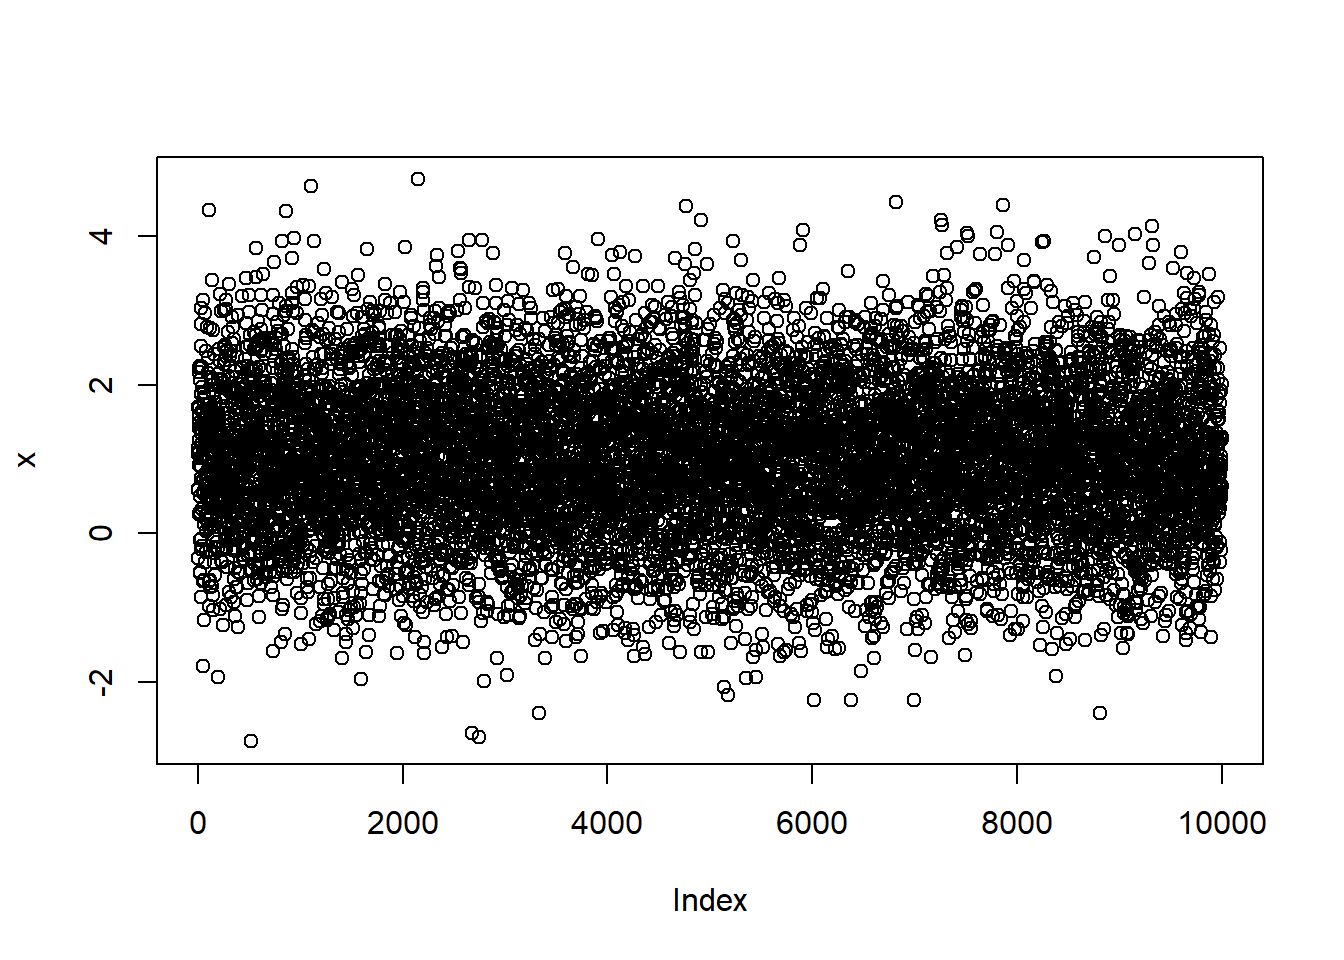
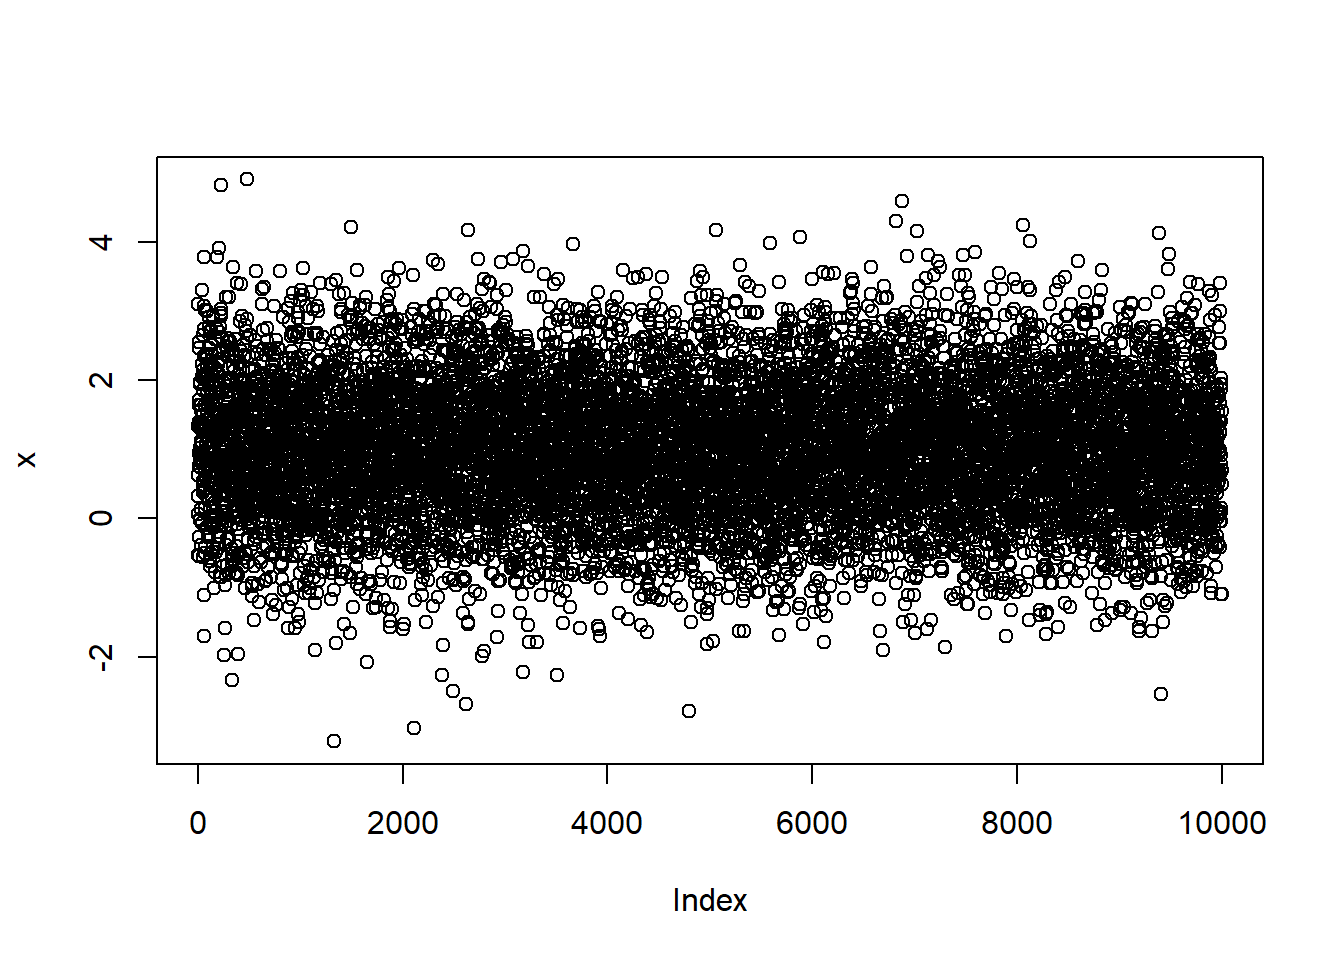
post comandos basicos

diff --git a/content/post/2021-02-17-comandos-basicos-r/index.html b/content/post/2021-02-17-comandos-basicos-r/index.html
@@ -1,13 +1,12 @@
 ---
 
-title: comandos basicos r
+title: Introdução ao R e comandos básicos
 author: Lucas S.B. Jordão
 date: '2021-02-17'
 slug: []
 output: 
     blogdown::html_page:
       toc: true
-      toc_float: true
 categories: []
 tags: []
 subtitle: ''
@@ -81,19 +80,19 @@ projects: []
 </ul>
 </div>
 
-<p>O <i class="fab fa-r-project" style="color:blue"></i> é um projeto colaborativo com contribuições de pessoas do mundo todo cujo objetivo é oferecer uma ferramenta estatística moderna para sistema GNU de software livre.</p>
+<p>O <i class="fab fa-r-project" style="color:blue"></i>  é um projeto colaborativo com contribuições de pessoas do mundo todo cujo objetivo é oferecer uma ferramenta estatística moderna para sistema GNU de software livre.</p>
 <div id="autores" class="section level2">
 <h2>Autores</h2>
-<p>O <i class="fab fa-r-project" style="color:blue"></i> foi idealizado e escrito por <strong>Robert Gentleman</strong> e <strong>Ross Ihaka</strong> — conhecidos como “R &amp; R” do Departamento de Estatística da Universidade de Auckland.</p>
+<p>O <i class="fab fa-r-project" style="color:blue"></i>  foi idealizado e escrito por <strong>Robert Gentleman</strong> e <strong>Ross Ihaka</strong> — conhecidos como “R &amp; R” do Departamento de Estatística da Universidade de Auckland.</p>
 </div>
 <div id="inspiração" class="section level2">
 <h2>Inspiração</h2>
-<p>O <i class="fab fa-r-project" style="color:blue"></i> foi inspirado no ambiente S, que tem sido principalmente desenvolvido por John Chambers, com contribuições substanciais de Douglas Bates, Rick Becker, Bill Cleveland, Trevor Hastie, Daryl Pregibon e Allan Wilks.</p>
-<p>Uma alusão especial é devida a John Chambers, que gentilmente contribuiu com conselhos e encorajamento nos primeiros dias de <i class="fab fa-r-project" style="color:blue"></i> e, mais tarde, tornou-se membro da equipe principal.</p>
+<p>O <i class="fab fa-r-project" style="color:blue"></i>  foi inspirado no ambiente S, que tem sido principalmente desenvolvido por John Chambers, com contribuições substanciais de Douglas Bates, Rick Becker, Bill Cleveland, Trevor Hastie, Daryl Pregibon e Allan Wilks.</p>
+<p>Uma alusão especial é devida a John Chambers, que gentilmente contribuiu com conselhos e encorajamento nos primeiros dias de <i class="fab fa-r-project" style="color:blue"></i>  e, mais tarde, tornou-se membro da equipe principal.</p>
 </div>
 <div id="contribuidores" class="section level2">
 <h2>Contribuidores</h2>
-<p>A partir de meados de 1997, um grupo central de desenvolvedores com acesso à escrita fonte do <i class="fab fa-r-project" style="color:blue"></i> passou a trabalhar nesse projeto desde então:</p>
+<p>A partir de meados de 1997, um grupo central de desenvolvedores com acesso à escrita fonte do <i class="fab fa-r-project" style="color:blue"></i>  passou a trabalhar nesse projeto desde então:</p>
 <ul>
 <li>Douglas Bates<br />
 </li>
@@ -143,7 +142,7 @@ projects: []
 </li>
 <li>Duncan Murdoch (até setembro de 2017)</li>
 </ul>
-<p>O <i class="fab fa-r-project" style="color:blue"></i> não seria o que é hoje sem a ajuda inestimável de pessoas fora da equipe principal do R, que contribuíram doando código, correções de bugs e documentação:</p>
+<p>O <i class="fab fa-r-project" style="color:blue"></i>  não seria o que é hoje sem a ajuda inestimável de pessoas fora da equipe principal do R, que contribuíram doando código, correções de bugs e documentação:</p>
 <p>Valerio Aimale, Suharto Anggono, Thomas Baier, Henrik Bengtsson, Roger Bivand,
 Ben Bolker, David Brahm, G“oran Brostr”om, Patrick Burns, Vince Carey,
 Saikat DebRoy, Matt Dowle, Brian D’Urso, Lyndon Drake, Dirk Eddelbuettel,
@@ -159,7 +158,7 @@ Arun Srinivasan, Detlef Steuer, Bill Simpson, Gordon Smyth, Adrian Trapletti,
 Terry Therneau, Rolf Turner, Bill Venables, Gregory R. Warnes,
 Andreas Weingessel, Morten Welinder, James Wettenhall, Simon Wood, and
 Achim Zeileis.</p>
-<p>Outros escreveram códigos que foram adotados no <i class="fab fa-r-project" style="color:blue"></i> e são reconhecidos nos arquivos de código, incluindo:</p>
+<p>Outros escreveram códigos que foram adotados no <i class="fab fa-r-project" style="color:blue"></i>  e são reconhecidos nos arquivos de código, incluindo:</p>
 <p>J. D. Beasley, David J. Best, Richard Brent, Kevin Buhr, Michael
 A. Covington, Bill Cleveland, Robert Cleveland,, G. W. Cran,
 C. G. Ding, Ulrich Drepper, Paul Eggert, J. O. Evans, David M. Gay,
@@ -267,7 +266,7 @@ Auckland, ajudaram Ross Ihaka a desenvolver a versão para Macintosh.</p>
 ## when using it for data analysis. See also &#39;citation(&quot;pkgname&quot;)&#39; for
 ## citing R packages.</code></pre>
 <pre class="r"><code>Sys.time()                  # obtém data e hora exata do sistema</code></pre>
-<pre><code>## [1] &quot;2021-02-17 12:17:48 -03&quot;</code></pre>
+<pre><code>## [1] &quot;2021-02-17 12:33:37 -03&quot;</code></pre>
 </div>
 <div id="operadores-simples-e-funções-matemáticas" class="section level2">
 <h2>Operadores simples e funções matemáticas</h2>
@@ -627,7 +626,7 @@ x &lt;- 1
 if(x == 1) {
   Sys.time()
 }               #mostra a data e hora exata do sistema, já que &#39;x&#39; é 1.</code></pre>
-<pre><code>## [1] &quot;2021-02-17 12:17:51 -03&quot;</code></pre>
+<pre><code>## [1] &quot;2021-02-17 12:33:39 -03&quot;</code></pre>
 <pre class="r"><code>if(x &lt; 0) {
   sinal &lt;- &quot;negativo&quot;
 } else if(x == 0) {
@@ -677,43 +676,46 @@ soma</code></pre>
 <div id="gerando-números-aleatórios-e-amostragem" class="section level1">
 <h1>Gerando números aleatórios e amostragem</h1>
 <pre class="r"><code>runif(100)        # Gera números aleatórios entre 0 e 1 com distribuição uniforme</code></pre>
-<pre><code>##   [1] 0.114464485 0.166222491 0.771593774 0.628486642 0.479739084 0.270543199
-##   [7] 0.448618812 0.617354669 0.097875605 0.222448662 0.903815951 0.241593179
-##  [13] 0.889870373 0.342623003 0.913647290 0.936573706 0.244559849 0.298623869
-##  [19] 0.669182980 0.663050062 0.222848886 0.619110996 0.798852796 0.487607297
-##  [25] 0.504973599 0.925194189 0.716578204 0.429717623 0.041916208 0.668249903
-##  [31] 0.568422795 0.334327069 0.089024592 0.145022920 0.614483509 0.247657777
-##  [37] 0.149617380 0.536688832 0.759298411 0.824020133 0.745723577 0.958084317
-##  [43] 0.067841821 0.229413060 0.728512020 0.666260464 0.793147391 0.801391457
-##  [49] 0.635659198 0.179219048 0.462731744 0.222792022 0.981748041 0.231298779
-##  [55] 0.518118776 0.529681637 0.479644591 0.113497861 0.176785233 0.923813025
-##  [61] 0.997537772 0.589862617 0.976330073 0.412956189 0.457585604 0.369394554
-##  [67] 0.850987823 0.248061676 0.973260290 0.226810621 0.183541670 0.898201088
-##  [73] 0.398708449 0.767085112 0.068208886 0.719572541 0.457105897 0.490190575
-##  [79] 0.487211454 0.729682267 0.174745420 0.710514796 0.007934506 0.147881167
-##  [85] 0.341647204 0.791521761 0.775876838 0.873941781 0.634317273 0.738925519
-##  [91] 0.609702585 0.314543938 0.144184087 0.221020488 0.519431980 0.170810690
-##  [97] 0.292158233 0.739959084 0.352044002 0.618211520</code></pre>
+<pre><code>##   [1] 0.591181368 0.707997163 0.297780432 0.716854055 0.012763073 0.342297685
+##   [7] 0.254842010 0.739836776 0.875067416 0.659600239 0.005272552 0.366622034
+##  [13] 0.367834026 0.408048987 0.707036463 0.599852897 0.434220815 0.704953322
+##  [19] 0.235676566 0.441164318 0.753126869 0.683852533 0.569373457 0.517491695
+##  [25] 0.212504508 0.321987074 0.460684008 0.934720652 0.784660248 0.111513549
+##  [31] 0.174373023 0.541800866 0.902766954 0.699655425 0.100291807 0.063124964
+##  [37] 0.991631374 0.735578190 0.604327130 0.974991752 0.897854778 0.294309053
+##  [43] 0.128877348 0.180623456 0.404023399 0.542217259 0.885349637 0.311257880
+##  [49] 0.947005721 0.683524556 0.987540145 0.711249517 0.669080454 0.418398092
+##  [55] 0.971700062 0.279970959 0.929889889 0.666879029 0.663724406 0.601237429
+##  [61] 0.616168900 0.460015987 0.612916921 0.111236771 0.907902811 0.090403073
+##  [67] 0.359965581 0.286938615 0.298557865 0.443439065 0.649799990 0.979018851
+##  [73] 0.530715581 0.232069189 0.803608340 0.272402583 0.875486090 0.805887589
+##  [79] 0.114148592 0.428074867 0.293594894 0.484958778 0.151524326 0.297047358
+##  [85] 0.417267353 0.367382733 0.106733595 0.757105321 0.886091131 0.780824201
+##  [91] 0.932347495 0.807081094 0.647886127 0.118903305 0.956390749 0.373799779
+##  [97] 0.542458954 0.322133070 0.029301250 0.596084156</code></pre>
 <pre class="r"><code>rnorm(100)        # Gera números aleatórios com distribuição normal</code></pre>
-<pre><code>##   [1] -1.80357203 -2.33009286 -0.05762600  0.19673785 -0.22083403  0.59887689
-##   [7]  2.04068217 -0.47791964  0.60204347  0.70347266  1.42657991 -1.84594102
-##  [13]  0.41725901  0.53834910 -0.69952778 -0.22240302 -0.53091758 -0.29499522
-##  [19] -0.34250928  1.00710550 -0.22968702 -0.54807416 -0.41673103 -0.32931159
-##  [25] -1.23032564  2.26651358  0.10362711 -1.28385541 -0.61058636 -0.67674391
-##  [31] -2.34353165 -0.74561372  0.55363247  1.65193819  1.00932895 -1.83499486
-##  [37] -1.24522592  1.31307858  0.65798736 -0.69802612  0.86937810  1.06672088
-##  [43] -0.28557044  2.01600212 -1.83486482  0.07687841  1.03143884  1.24215647
-##  [49] -0.74683627  0.40441985 -0.54022624 -1.48062062  1.64203645  0.74175418
-##  [55]  0.11231626 -0.66911956 -1.39482923 -1.53006523  1.48467374  0.39644907
-##  [61] -1.22073746  1.75888920 -0.68824215 -0.49664044 -0.55675112  0.04692730
-##  [67]  0.41100465  0.73611770  1.82780496  1.26384636  0.47314725  0.49235770
-##  [73] -1.60414915  1.57973255  0.65030432  0.51099316 -1.32428540 -2.35469835
-##  [79]  0.01954988 -0.19812952  0.69342851  0.59812699 -0.99460642 -0.29683200
-##  [85]  0.80004953  0.61923135  0.88268911 -0.69009439 -1.34534056 -1.09443977
-##  [91]  0.69127601  2.63138269  1.40313133  0.71998391 -0.25265943 -0.11394714
-##  [97] -0.78587686  0.65186204 -0.61225722  0.16451063</code></pre>
+<pre><code>##   [1] -0.199189410 -0.092249092 -1.275004186 -1.163717764  1.680961618
+##   [6]  0.260956139  0.638641077 -0.077723343 -0.846792827 -1.545983149
+##  [11] -1.252948657  0.958315140 -0.768071402 -2.587286377  0.954142463
+##  [16] -1.155411938 -1.268153043  0.151697916 -1.219347743 -0.253664861
+##  [21] -0.821185081 -0.968550246  1.480751903  0.347406521  1.254162415
+##  [26] -1.066580680 -0.140019993 -1.395771267 -0.593153699 -0.236095248
+##  [31] -1.261750818 -1.248104336  0.089860418 -0.081033576  0.711265665
+##  [36] -0.976472295 -0.201127769  0.197523114 -1.143701469  0.723954352
+##  [41]  0.696193179 -1.972512119 -1.347495046  0.155250223  0.083696757
+##  [46]  0.710379178  1.161156897 -1.757666084  0.895100136  0.813308464
+##  [51] -0.745386663  0.390688151 -1.189099899  0.670950765 -0.401623495
+##  [56] -0.758525082  0.005288454 -0.550420819  1.070978416  0.290422921
+##  [61] -0.108903281 -1.463025428  0.994792400 -0.455481507 -0.376579874
+##  [66] -0.699157821 -0.759494815 -0.280625226  0.394138554  2.110085043
+##  [71]  1.149822834 -0.640432001 -1.091377061 -0.160105072 -1.193286549
+##  [76]  0.510950259 -0.325197131  0.687599558  1.049787793 -0.926764787
+##  [81] -0.433542923 -1.211751325 -0.319063935  0.962300555  0.035197315
+##  [86]  2.053791722 -2.444418241  0.036006804 -1.109738020 -0.213751263
+##  [91]  0.818457241 -1.193009255  0.620767765 -0.367852878 -1.513306160
+##  [96] -1.503945522 -0.713399399 -0.084115512  1.106117097 -1.595382819</code></pre>
 <pre class="r"><code>sample(1:100, 4)  # Amostragem</code></pre>
-<pre><code>## [1] 33 10 19 21</code></pre>
+<pre><code>## [1]  9 25 22 66</code></pre>
 </div>
 <div id="gráficos-de-análise-descritiva" class="section level1">
 <h1>Gráficos de Análise Descritiva</h1>
